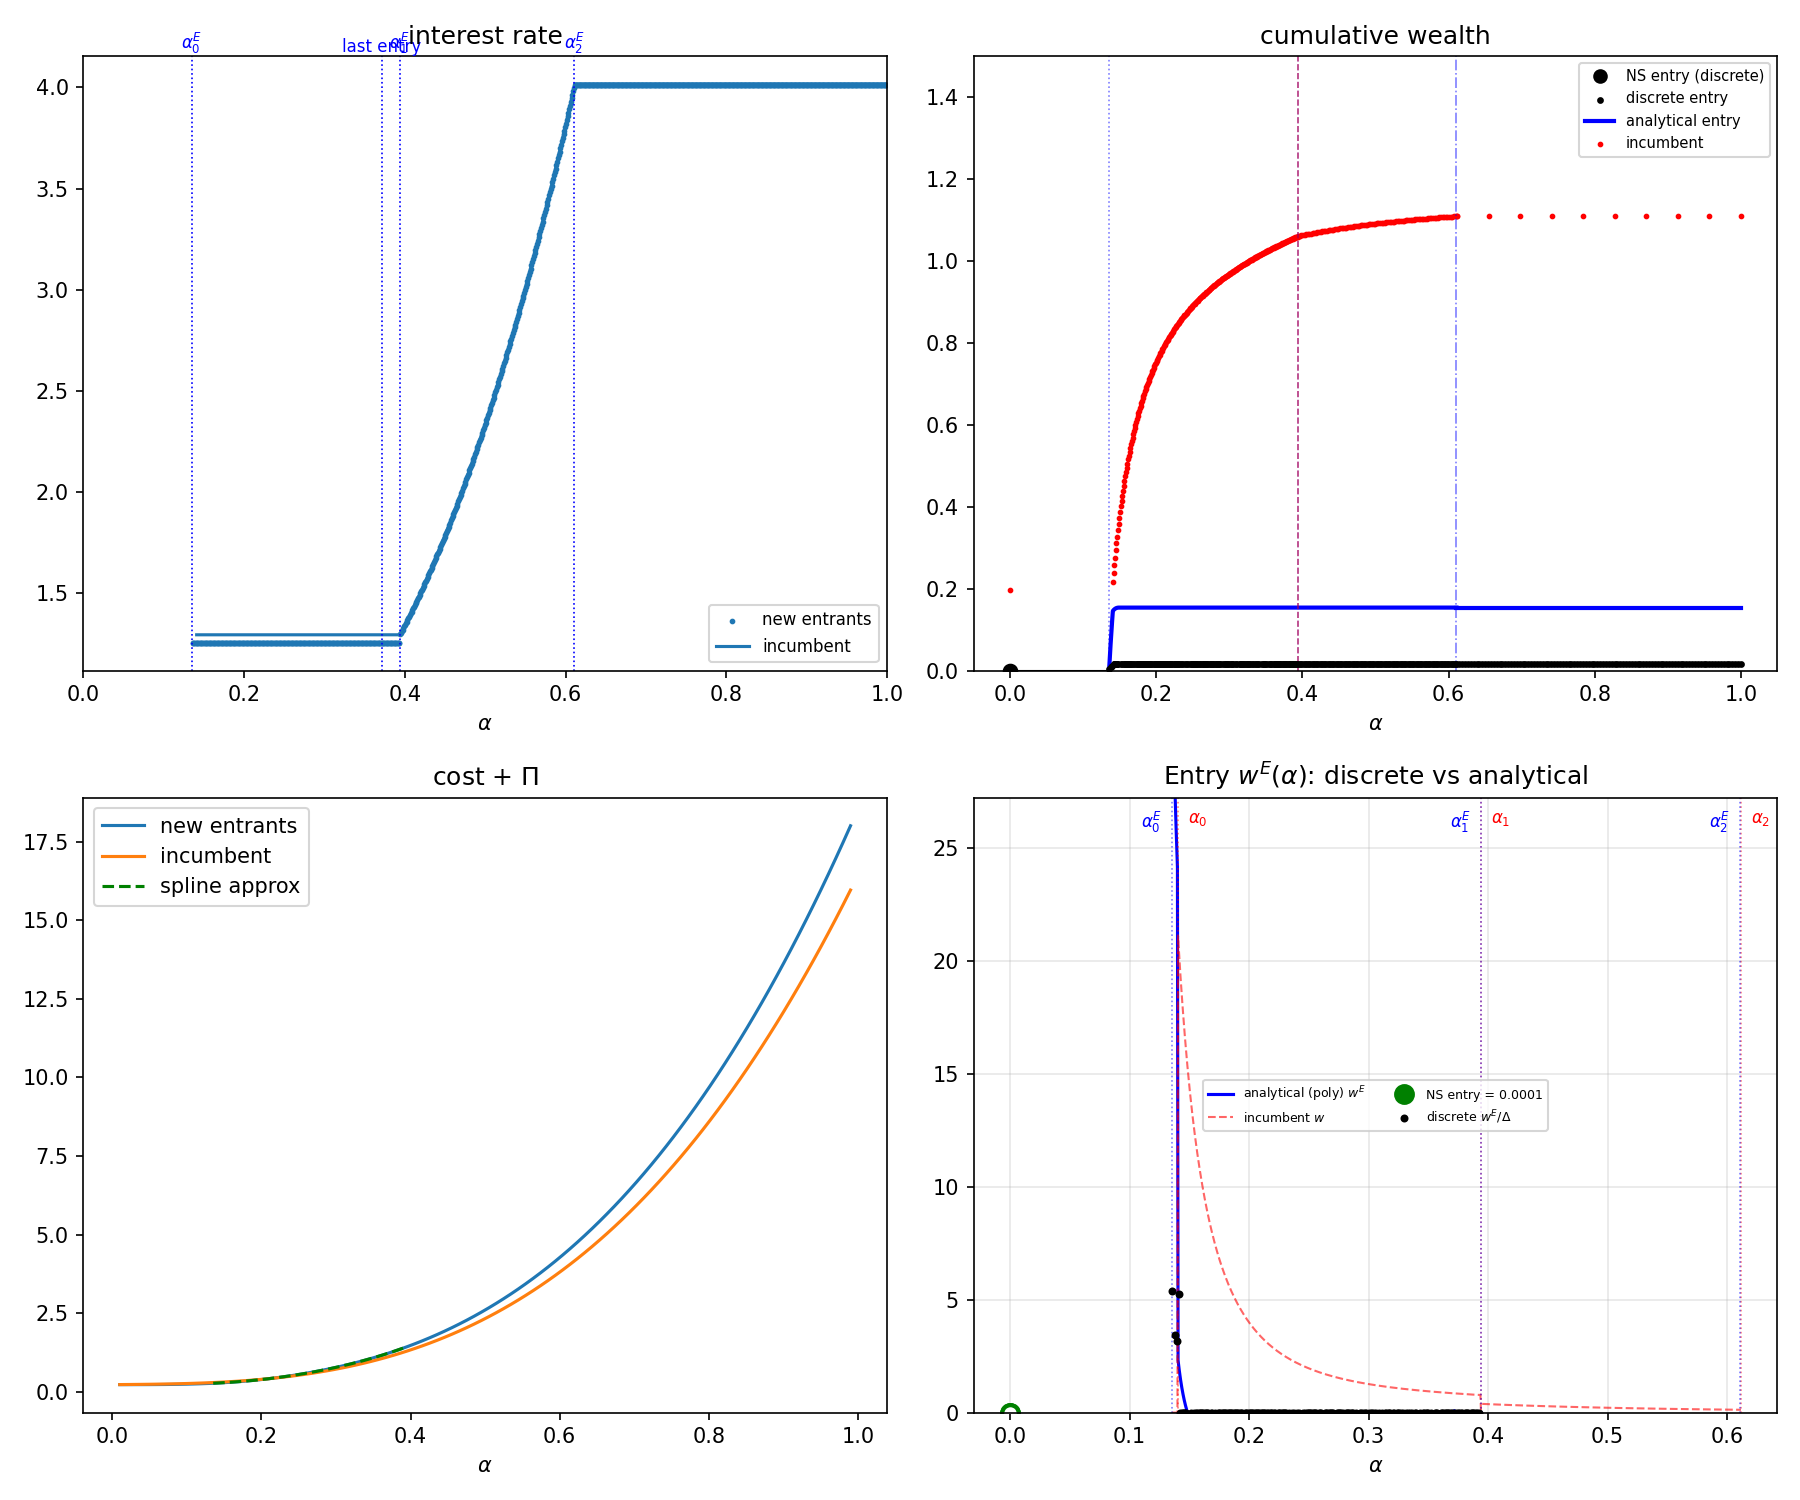
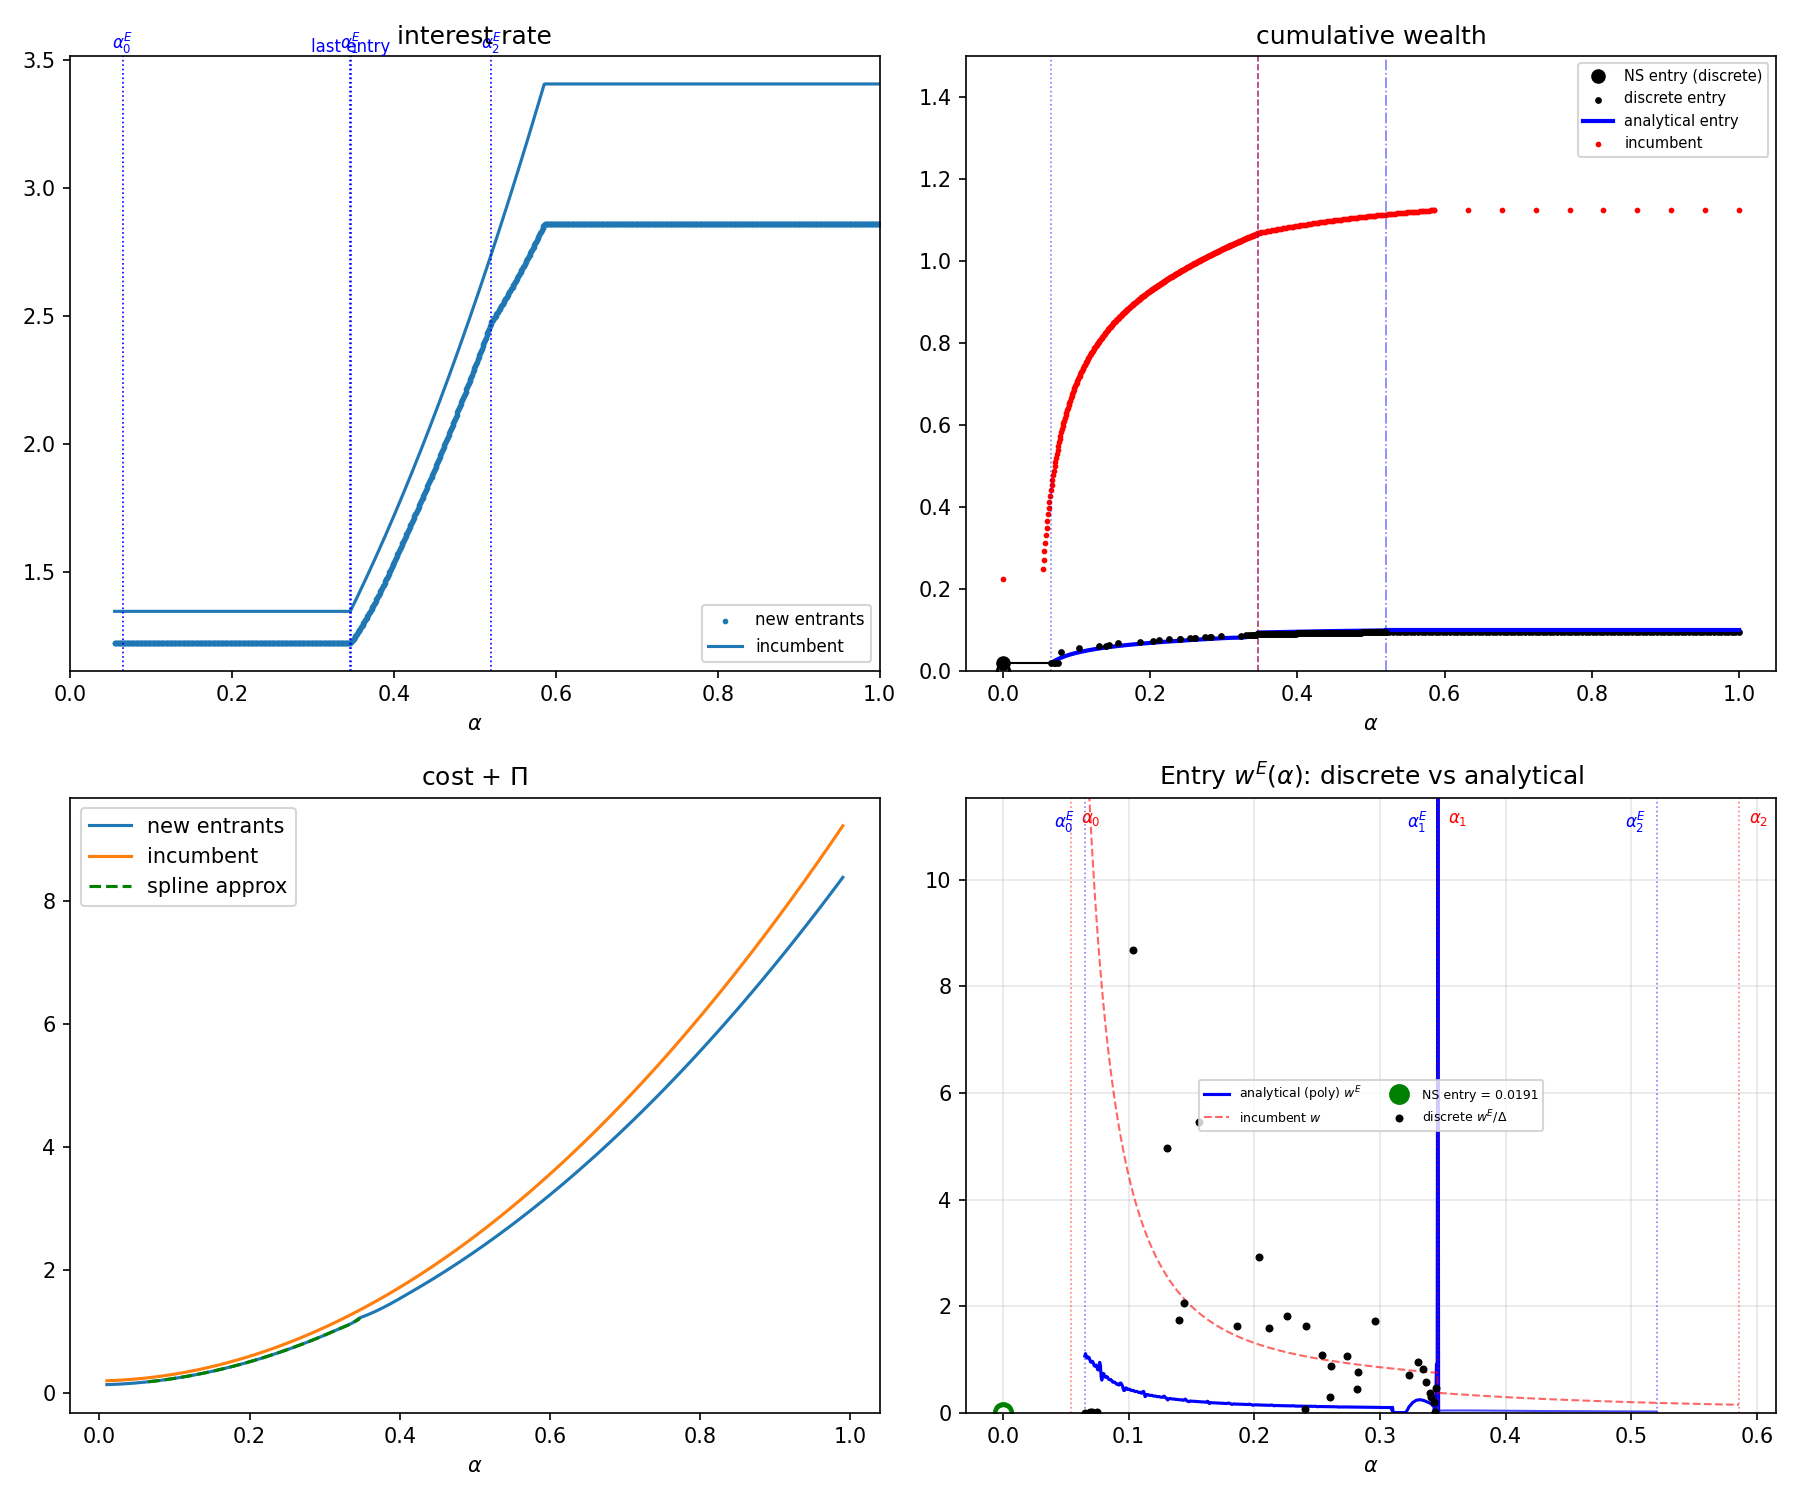
Implement entry-side ironing (Step 6 of the entry proof)
solve_entry_pooling_analytical previously took the no-entry intervals to be
the set where the closed-form w^E is negative, propagated the pool through
them with incumbent-only depletion, and only PRINTED the resulting
entrant-profit residual -- 0.29 on the alpha=0-dip calibration, i.e. entrants
left strictly profitable over most of the pooling region.

New _iron_entry / _entry_no_entry_tail implement the construction as now
stated in the paper: the no-entry intervals are the connected components of
  N^E = { a~ : gamma^E(a; a~) > (1+K^E(a))/(1+r_pE) for some a > a~ },
with the tail propagated under continued incumbent lending (the baseline
frozen-pool formulas thinned by Lambda = exp(-int theta^E)).

Design notes, each forced by a failure mode met on the way:
- components are read off membership, not iron_region1's tangency argmax:
  in the entry problem the tail can stay strictly below the bound all the way
  to alpha_1^E, so entry never resumes and the argmax returns a spurious
  interior point.
- membership tolerance n_tol = da: at a cutoff with w^E > 0 the test compares
  two quantities equal by construction and forward-Euler noise (~2e-5) sets
  the sign; genuine violations are 1e-2 to 3e-1.
- the infeasible set {w^E < 0} is unioned in explicitly (it is provably a
  subset of N^E); on a shallow infeasible stretch the violation is itself
  O(da) and the tolerance alone lost coverage.
- only the LEFT extension of each infeasible run needs the tail walk; nothing
[…]

diff --git a/mainE_python.py b/mainE_python.py
@@ -1438,6 +1438,198 @@ def fit_cfunE_smooth(alpha0E, alpha1E, n_fit=300, smoothing=0):
 # Analytical entry equilibrium — Region I (pooling)
 # =============================================================================
 
+def _entry_no_entry_tail(i, GE, BE, w_incumbent, B0_tilde, g_tilde, b_tilde,
+                         Gamma_req_E, beta, D_rpE, da, early_stop=False,
+                         stop_above=0.0):
+    """Propagate (G^E, B^E) forward from index i with the entrants absent.
+
+    Step 6 of the entry proof.  If entrant entry stops at α_L = alphas[i], the
+    incumbents are still in place and keep lending at w(α), so along the tail
+
+        θ^E(s) = w(s) / (D(r_p^E) T^E(s; α_L))
+        dG^E/dα = −θ^E G^E + (1−β) g̃(ω_g(α))
+        dB^E/dα = −θ^E B^E − β b̃(ω_b(α)) E^E(α)
+
+    which is the baseline frozen-pool propagation of credit_model.iron_region1
+    thinned by Λ(α;α_L) = exp(−∫θ^E).  With w ≡ 0 the two coincide.
+
+    Returns (m, G_path, B_path), where m is the maximum of
+    γ^E(α;α_L) − Γ^E_req(α) over the tail: i is in N^E iff m exceeds the
+    caller's tolerance.  With early_stop the walk returns as soon as m passes
+    `stop_above` and the paths come back as None — enough for the membership
+    test, which is all the component scan needs.  G_path/B_path are indexed
+    from i+1.
+    """
+    n = len(Gamma_req_E)
+    G_path = np.empty(n - i - 1)
+    B_path = np.empty(n - i - 1)
+    G_st, B_st = GE[i], BE[i]
+    m = -np.inf
+    for k in range(i + 1, n):
+        T_st = G_st + B_st
+        th = (w_incumbent[k] / (D_rpE * T_st)) if T_st > 1e-15 else 0.0
+        E_st = B_st / max(B0_tilde[k], 1e-15)
+        G_st = max((1 - th * da) * G_st + (1 - beta) * g_tilde[k] * da, 0.0)
+        B_st = max((1 - th * da) * B_st - beta * b_tilde[k] * E_st * da, 0.0)
+        G_path[k - i - 1] = G_st
+        B_path[k - i - 1] = B_st
+        T_k = G_st + B_st
+        v = (G_st / T_k if T_k > 1e-15 else 1.0) - Gamma_req_E[k]
+        if v > m:
+            m = v
+        if early_stop and m > stop_above:
+            return m, None, None
+    return m, G_path, B_path
+
+
+def _iron_entry(alphas, GE, BE, EE, TE, gammaE, w_total, w_incumbent, KE,
+                B0_tilde, g_tilde, b_tilde, beta, rpE, D_rpE, da,
+                w_tol_rel=1e-8, n_tol=None):
+    """Ironing of the entrant Region-I density — Step 6 of the entry proof.
+
+    The no-entry intervals are the connected components of
+
+        N^E = { α̃ : γ^E(α; α̃) > (1+K^E(α))/(1+r_p^E) for some α > α̃ },
+
+    NOT the set on which the closed-form w^E is negative; the latter is in
+    general strictly smaller, and stopping entry there can leave a pool that
+    incumbent lending alone improves past the entrants' break-even
+    requirement, so that free entry fails on the interior of the interval.
+
+    Membership is tested point by point and the components are read off
+    directly, rather than by iron_region1's downward scan for a left edge plus
+    tangency argmax.  That shortcut assumes the frozen tail from the left edge
+    touches the bound again, which pins the right edge; in the entry problem
+    it often does not — the tail can stay strictly below the bound all the way
+    to α_1^E, so entry simply never resumes — and the argmax then returns a
+    spurious interior point.  Testing membership is the definition itself and
+    costs O(n^2) cheap steps with the early exit.
+
+    The other difference from the baseline: the tail is propagated by
+    _entry_no_entry_tail (incumbents keep lending) rather than held frozen.
+
+    GE/BE/EE/TE/gammaE are corrected in place on each component.
+    Returns {'active', 'wE', 'intervals', 'diagnostics'}.
+    """
+    n = len(alphas)
+    deficit = w_total - w_incumbent          # the closed-form w^E
+    scale = max(1.0, float(np.max(np.abs(deficit))))
+    wE = np.maximum(0.0, deficit)
+    if np.min(deficit) >= -w_tol_rel * scale:
+        return {'active': False, 'wE': wE, 'intervals': [], 'diagnostics': []}
+
+    Gamma_req_E = (1 + KE) / (1 + rpE)
+    # Membership tolerance.  At a cutoff where the closed form has w^E > 0 the
+    # propagated path leaves γ^E just below Γ^E_req, so the test compares two
+    # quantities that agree by construction and the forward-Euler error decides
+    # the sign: on the shipped grids that noise is ~2e-5, against genuine
+    # violations of 1e-2 to 3e-1.  The integrator is O(da) accurate, so da is
+    # the natural threshold and sits three orders below either.
+    if n_tol is None:
+        n_tol = da
+    args = (GE, BE, w_incumbent, B0_tilde, g_tilde, b_tilde,
+            Gamma_req_E, beta, D_rpE, da)
+
+    # Γ^E_req > 1 asks for a pool of more than 100% good borrowers, so no
+    # entrant can break even there.  Where that holds over the whole tail, the
+    # cutoff is trivially outside N^E and the walk can be skipped.
+    req_min_suffix = np.minimum.accumulate(Gamma_req_E[::-1])[::-1]
+
+    # Every α̃ where the closed form demands w^E < 0 is in N^E: the zero-profit
+    # path there calls for less total lending than the incumbents already
+    # supply, so stopping entry at α̃ leaves MORE depletion than the path wants
+    # and hence a pool strictly better than break-even just above α̃.  Start
+    # from that set -- it is exact, needs no tail walk, and is the coverage
+    # ironing exists to repair.
+    in_N = deficit < -w_tol_rel * scale
+
+    # Then extend each stretch to the LEFT: entry has to stop early enough that
+    # the incumbent-only tail never beats break-even.  This is iron_region1's
+    # downward scan, and it is the only place the tail test is needed.  Nothing
+    # strictly to the right of every infeasible stretch can be in N^E: the
+    # closed form is feasible there, so stopping leaves LESS depletion than the
+    # path wants, making the pool worse rather than better.
+    run_starts = []
+    i = 0
+    while i < n:
+        if not in_N[i]:
+            i += 1
+            continue
+        run_starts.append(i)
+        while i < n and in_N[i]:
+            i += 1
+    for s in run_starts:
+        j = s - 1
+        while j >= 0 and not in_N[j]:
+            if req_min_suffix[j + 1] >= 1.0:
+                break
+            m_j, _, _ = _entry_no_entry_tail(j, *args, early_stop=True,
+                                             stop_above=n_tol)
+            if m_j <= n_tol:
+                break
+            in_N[j] = True
+            j -= 1
+
+    # Connected components of N^E.
+    comps = []
+    i = 0
+    while i < n:
+        if not in_N[i]:
+            i += 1
+            continue
+        s = i
+        while i < n and in_N[i]:
+            i += 1
+        comps.append((s, i - 1))
+
+    T_scale = max(float(np.max(TE)), 1e-15)   # before TE is mutated below
+    intervals, diagnostics = [], []
+    for (s, e) in comps:
+        i_L = max(s - 1, 0)
+        resid, G_path, B_path = _entry_no_entry_tail(i_L, *args)
+
+        # Entry resumes at the right edge only if the closed form is actually
+        # active there: an entrant must be able to break even (Γ^E_req < 1) and
+        # the zero-profit path must call for positive lending.  Otherwise the
+        # component runs to α_1^E.
+        terminal = (e >= n - 1) or (Gamma_req_E[e + 1] >= 1.0
+                                    or w_total[e + 1] <= 0.0)
+        k_hi = n if terminal else e + 1
+        ks = np.arange(i_L + 1, k_hi)
+        if len(ks):
+            GE[ks] = G_path[ks - i_L - 1]
+            BE[ks] = B_path[ks - i_L - 1]
+            TE[ks] = GE[ks] + BE[ks]
+            EE[ks] = BE[ks] / np.maximum(B0_tilde[ks], 1e-15)
+            gammaE[ks] = np.where(TE[ks] > 1e-15, GE[ks] / TE[ks], 1.0)
+            wE[ks] = 0.0
+        wE[s:k_hi] = 0.0
+
+        # At a non-terminal right edge the closed form resumes; report how well
+        # the propagated state matches the closed-form state there.  Normalised
+        # by the largest pool mass rather than pointwise: near the top of the
+        # region the closed-form state itself vanishes, and a pointwise ratio
+        # there reports a huge error for a negligible absolute one.
+        if terminal:
+            mismatch = None
+        else:
+            gp, bp = G_path[e + 1 - i_L - 1], B_path[e + 1 - i_L - 1]
+            mismatch = (abs(gp - GE[e + 1]) / T_scale,
+                        abs(bp - BE[e + 1]) / T_scale)
+
+        intervals.append((float(alphas[s]), float(alphas[e])))
+        diagnostics.append({
+            'a_L': float(alphas[i_L]),
+            'a_R': float(alphas[min(e + 1, n - 1)]),
+            'max_entrant_profit_resid': float(resid),
+            'state_mismatch_at_resume': mismatch,
+            'terminal': bool(terminal),
+        })
+
+    return {'active': True, 'wE': wE, 'intervals': intervals,
+            'diagnostics': diagnostics}
+
+
 def solve_entry_pooling_analytical(rpE, alpha0E, alpha1E, n_pts=500,
                                    cfunE_poly_info=None):
     """
@@ -1562,66 +1754,24 @@ def solve_entry_pooling_analytical(rpE, alpha0E, alpha1E, n_pts=500,
                                 (1 - beta) * gpriorfun_scalar(beta + a_j * (1 - beta)))
     w_incumbent = w_inc_pooling + w_inc_cim
 
-    # Entry density: entrants active only where the zero-profit total exceeds
-    # the incumbent floor (Step 6 of the entry proof).
-    wE = np.maximum(0, w_total - w_incumbent)
-
-    # --- Entry-side Step-6 forward pass -----------------------------------
-    # On suspended stretches (total required < incumbent floor) the pool does
-    # NOT follow the zero-profit closed form: incumbents keep lending, so the
-    # state (G^E, B^E) evolves by incumbent-only depletion at r_pE.  Propagate
-    # it, overwrite the state arrays there, and report (i) the entrant-profit
-    # residual inside (the text's Step 6 notes incumbent capital alone may
-    # generate excess quality, i.e. a positive residual — the boundary
-    # adjustment for that case runs through Step 3's alpha1'E, not here) and
-    # (ii) the state mismatch where the closed form resumes.
-    suspended = w_total < w_incumbent
-    suspended_intervals = []
-    suspension_diags = []
-    if np.any(suspended) and not np.all(suspended):
-        Gamma_req_E = (1 + KE) / (1 + rpE)
-        j = 0
-        n_g = len(alphas)
-        while j < n_g:
-            if not suspended[j]:
-                j += 1
-                continue
-            s = j
-            while j < n_g and suspended[j]:
-                j += 1
-            e = j  # suspension on [s, e)
-            G_st = GE[s - 1] if s > 0 else GE[0]
-            B_st = BE[s - 1] if s > 0 else BE[0]
-            max_resid = -np.inf
-            for k in range(s, e):
-                T_st = G_st + B_st
-                th_inc = (w_incumbent[k] / (D_rpE * T_st)) if T_st > 1e-15 else 0.0
-                E_st = B_st / max(B0_tilde[k], 1e-15)
-                G_next = (1 - th_inc * da) * G_st + (1 - beta) * g_tilde[k] * da
-                B_next = (1 - th_inc * da) * B_st - beta * b_tilde[k] * E_st * da
-                G_st, B_st = max(G_next, 0.0), max(B_next, 0.0)
-                GE[k], BE[k] = G_st, B_st
-                EE[k] = B_st / max(B0_tilde[k], 1e-15)
-                TE[k] = G_st + B_st
-                gam_k = G_st / TE[k] if TE[k] > 1e-15 else 1.0
-                gammaE[k] = gam_k
-                max_resid = max(max_resid, gam_k - Gamma_req_E[k])
-            if e < n_g:
-                mismatch = (abs(G_st - GE[e]) / max(abs(GE[e]), 1e-15),
-                            abs(B_st - BE[e]) / max(abs(BE[e]), 1e-15))
-            else:
-                mismatch = None
-            suspended_intervals.append((float(alphas[s]),
-                                        float(alphas[min(e, n_g - 1)])))
-            suspension_diags.append({
-                'max_entrant_profit_resid': float(max_resid),
-                'state_mismatch_at_resume': mismatch,
-            })
-        print(f"  Entry Step-6: suspended stretches "
+    # --- Step 6: ironing ---------------------------------------------------
+    # Entrants are active where the zero-profit total exceeds the incumbent
+    # floor.  Where it does not, the no-entry intervals are the components of
+    # N^E, found by _iron_entry -- not the set where the closed form is
+    # negative, which would leave entrants strictly profitable inside.
+    _ir = _iron_entry(alphas, GE, BE, EE, TE, gammaE, w_total, w_incumbent,
+                      KE, B0_tilde, g_tilde, b_tilde, beta, rpE, D_rpE, da)
+    wE = _ir['wE']
+    suspended_intervals = _ir['intervals']
+    suspension_diags = _ir['diagnostics']
+    if _ir['active']:
+        print(f"  Entry Step-6 ironing: no-entry intervals "
               f"{[(round(a, 4), round(b, 4)) for (a, b) in suspended_intervals]}")
         for d_ in suspension_diags:
-            print(f"    max entrant-profit residual inside: "
-                  f"{d_['max_entrant_profit_resid']:.3e}"
+            print(f"    a_L={d_['a_L']:.4f}, a_R={d_['a_R']:.4f}"
+                  + ("  [reaches alpha1E, no resumption]" if d_['terminal'] else "")
+                  + f"; max entrant-profit residual "
+                    f"{d_['max_entrant_profit_resid']:.3e}"
                   + (f"; state mismatch at resume (G,B): "
                      f"({d_['state_mismatch_at_resume'][0]:.2e}, "
                      f"{d_['state_mismatch_at_resume'][1]:.2e})"
